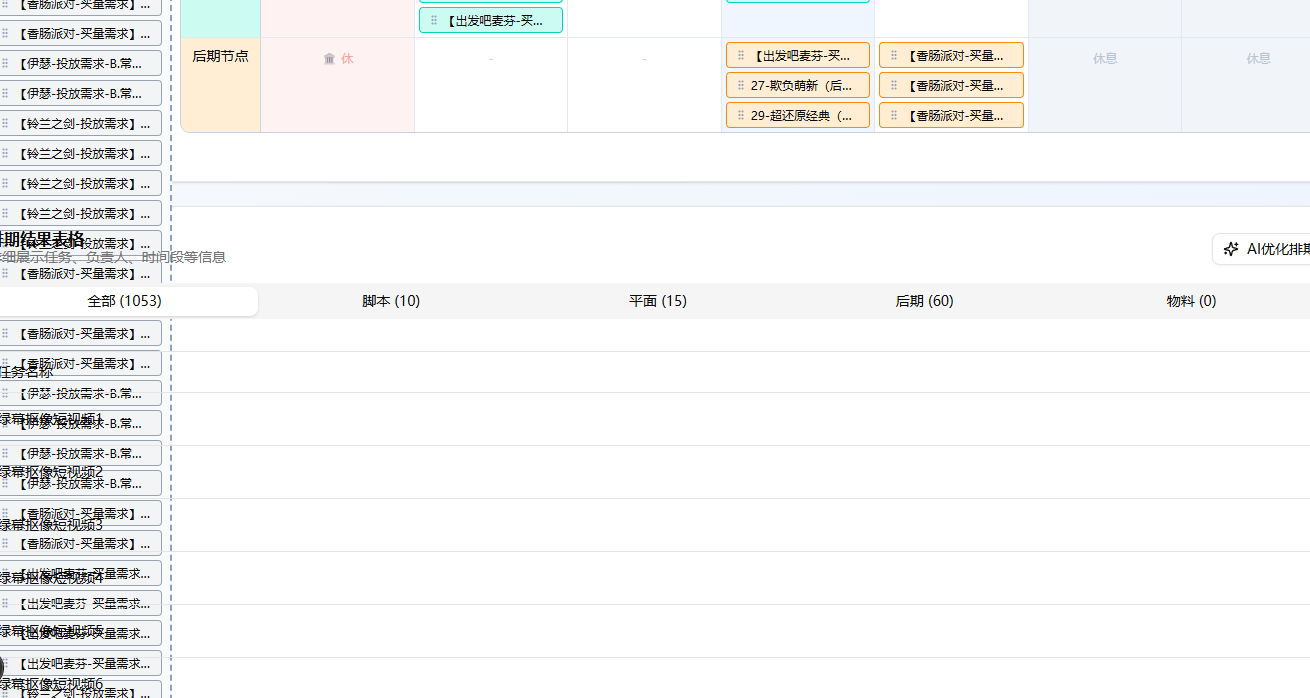
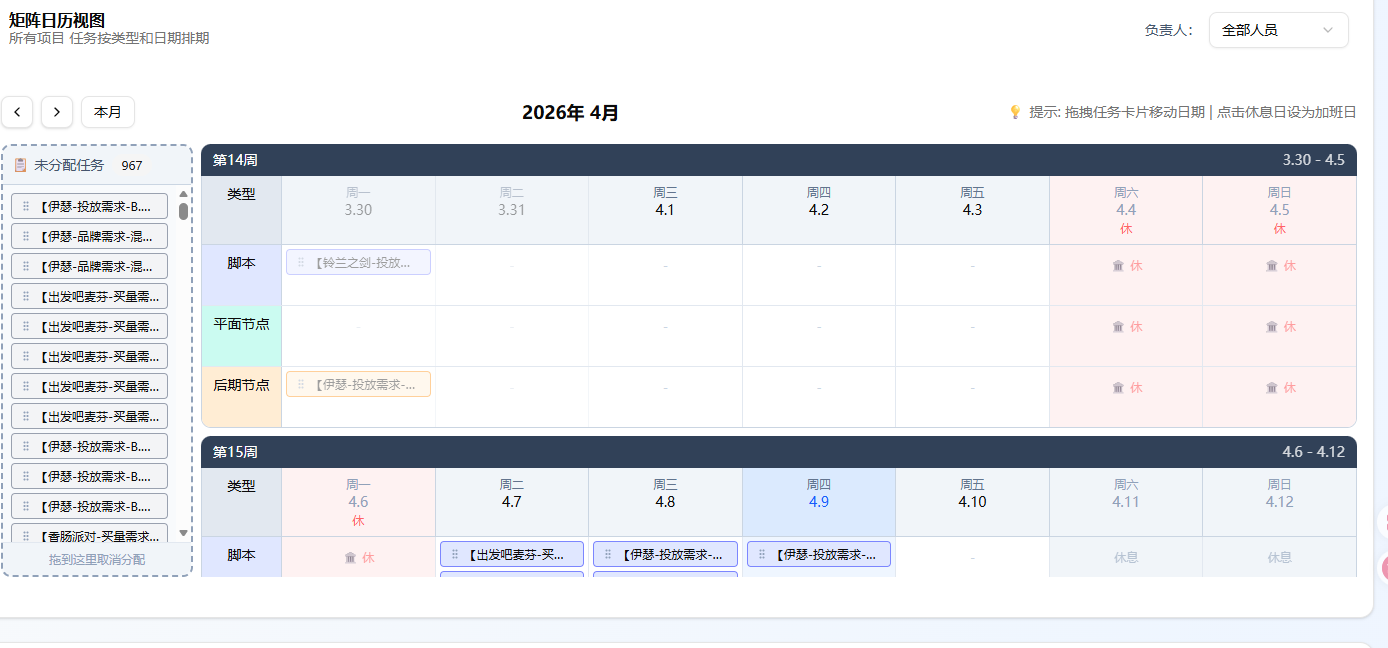
fix: 修复矩阵日历显示周数和拖动滚动问题

diff --git a/src/components/views/matrix-calendar-view.tsx b/src/components/views/matrix-calendar-view.tsx
@@ -394,6 +394,8 @@ const UnassignedTaskPool = memo(function UnassignedTaskPool({
     },
   });
 
+  const isDragging = !!draggedTask;
+
   return (
     <div
       ref={setNodeRef}
@@ -401,6 +403,7 @@ const UnassignedTaskPool = memo(function UnassignedTaskPool({
         flex-1 bg-slate-50 border-2 border-dashed border-slate-400
         rounded-lg flex flex-col overflow-hidden
         ${isOver && draggedTask?.taskType ? 'bg-green-50 border-green-400' : ''}
+        ${isDragging ? 'select-none' : ''}
       `}
     >
       {/* 固定头部 */}
@@ -409,8 +412,8 @@ const UnassignedTaskPool = memo(function UnassignedTaskPool({
         <Badge variant="secondary" className="text-xs">{tasks.length}</Badge>
       </div>
       
-      {/* 可滚动的内容区域 */}
-      <div className="flex-1 overflow-y-auto p-2 space-y-1">
+      {/* 可滚动的内容区域 - 拖动时禁用滚动 */}
+      <div className={`flex-1 overflow-y-auto p-2 space-y-1 ${isDragging ? 'overflow-hidden' : ''}`}>
         {tasks.length === 0 ? (
           <div className="text-center text-slate-400 text-xs py-4">
             暂无未分配任务
@@ -429,8 +432,8 @@ const UnassignedTaskPool = memo(function UnassignedTaskPool({
       
       {/* 固定底部提示 */}
       <div className="px-2 py-2 border-t border-slate-200 bg-slate-100 rounded-b-lg flex-shrink-0">
-        <div className="text-xs text-slate-400 text-center">
-          拖到这里取消分配
+        <div className={`text-xs text-center ${isDragging ? 'text-blue-500 font-medium' : 'text-slate-400'}`}>
+          {isDragging ? '松开鼠标取消分配' : '拖到这里取消分配'}
         </div>
       </div>
     </div>

diff --git a/src/components/scenarios/complex-scenario.tsx b/src/components/scenarios/complex-scenario.tsx
@@ -3012,7 +3012,7 @@ export default function ComplexScenario() {
                     </div>
                   </div>
                 </CardHeader>
-                <CardContent className="p-4 flex flex-col" style={{ height: 'calc(100vh - 300px)', minHeight: '500px' }}>
+                <CardContent className="p-4 flex flex-col" style={{ height: 'calc(100vh - 250px)', minHeight: '700px' }}>
                   <MatrixCalendarView
                     scheduledTasks={filteredScheduleTasks}
                     resources={sharedResources}
